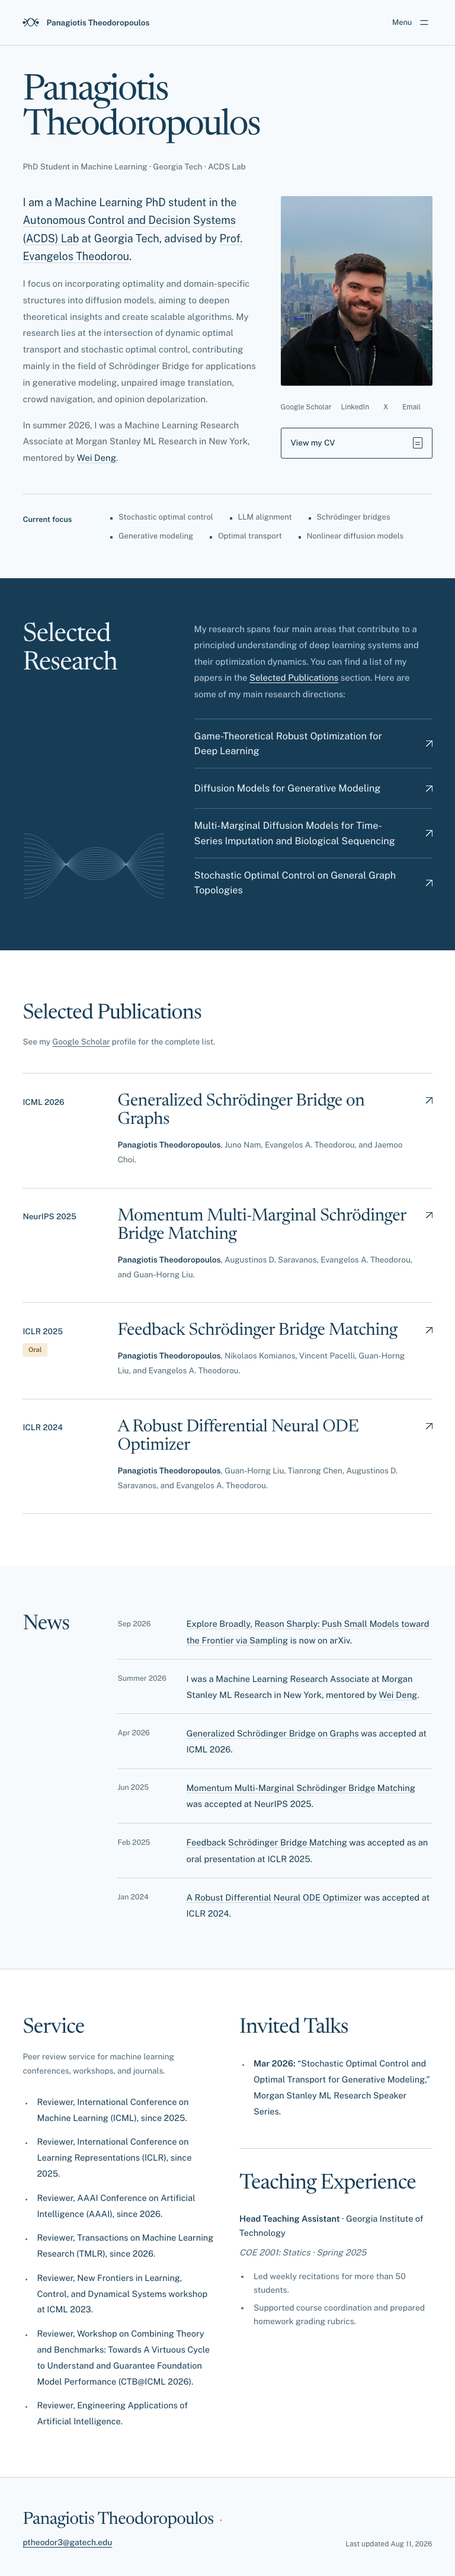
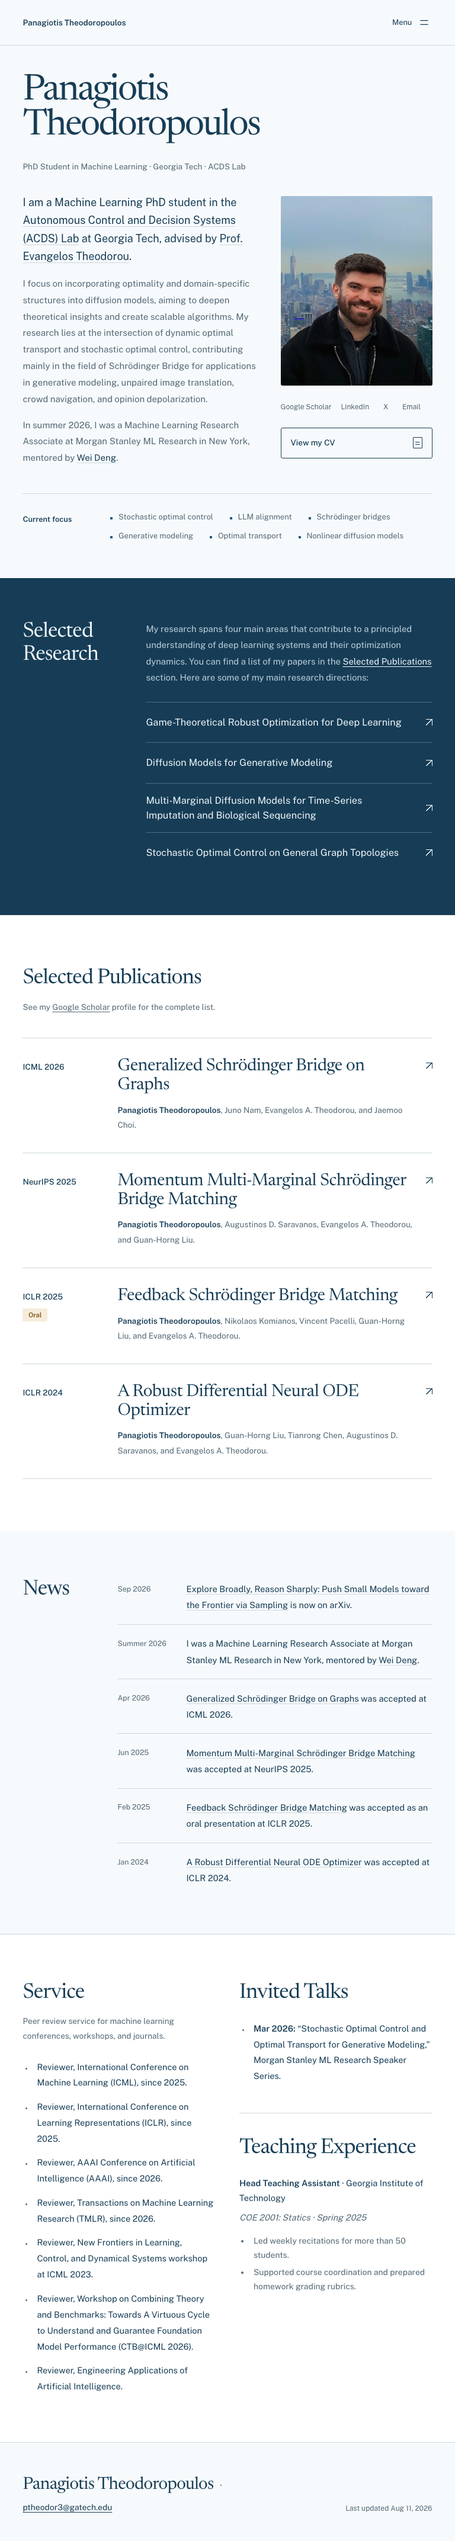
Remove decorative graphics and simplify research presentation

diff --git a/assets/site.css b/assets/site.css
@@ -104,14 +104,6 @@ section[id], main { scroll-margin-top: 6.5rem; }
   line-height: 1.35;
   text-decoration: none;
 }
-.site-mark {
-  flex: 0 0 auto;
-  overflow: visible;
-  fill: var(--ink);
-  stroke: var(--ink);
-  stroke-width: 1.2;
-}
-.site-mark path { fill: none; }
 .nav-list {
   display: flex;
   align-items: center;
@@ -267,10 +259,8 @@ h1 span { display: block; }
   color: var(--research-text);
   background: var(--research);
 }
-.research-grid { display: grid; grid-template-columns: 0.85fr 1.35fr; gap: 5rem; }
-.research-grid .section-header { display: flex; flex-direction: column; justify-content: space-between; }
-.research-grid .section-title { max-width: 16rem; font-size: clamp(2.75rem, 4vw, 3.6rem); }
-.transport-motif { width: 100%; max-width: 25rem; margin-top: 2.5rem; stroke: #7fa4be; stroke-width: 0.8; }
+.research-grid { display: grid; grid-template-columns: 14rem minmax(0, 1fr); gap: 3rem; }
+.research-grid .section-header { align-self: start; }
 .research-copy { margin-bottom: 1.7rem; color: var(--research-muted); font-size: 0.93rem; line-height: 1.85; }
 .research-copy a { color: var(--research-text); }
 .research-list { padding: 0; list-style: none; }
@@ -418,7 +408,7 @@ h1 span { display: block; }
   .hero-meta { max-width: none; }
   .hero-social { flex-wrap: wrap; justify-content: start; column-gap: 1rem; }
   .hero-social a[aria-label="X"] { min-width: 1.5rem; }
-  .research-grid { gap: 3rem; grid-template-columns: 0.75fr 1.25fr; }
+  .research-grid { gap: 2rem; grid-template-columns: 11rem minmax(0, 1fr); }
   .focus-block { grid-template-columns: 8rem minmax(0, 1fr); }
   .publications-section .section-header { display: block; }
   .publications-section .section-intro { max-width: none; margin-top: 1rem; }
@@ -434,7 +424,6 @@ h1 span { display: block; }
   section[id], main { scroll-margin-top: 5.5rem; }
   .header-inner { min-height: 4.5rem; }
   .site-title { gap: 0.5rem; font-size: 0.75rem; max-width: calc(100% - 5.25rem); }
-  .site-mark { width: 24px; height: 24px; }
   .site-title span { max-width: 11rem; }
   .site-header[data-enhanced] .nav-list { grid-template-columns: repeat(2, 1fr); gap: 0.4rem 2rem; }
   .nav-list { flex-wrap: wrap; justify-content: start; gap: 0.4rem 1.25rem; }
@@ -460,7 +449,6 @@ h1 span { display: block; }
   .research-grid { display: block; }
   .research-grid .section-header { margin-bottom: 1.5rem; }
   .research-grid .section-title { max-width: none; font-size: 2.65rem; }
-  .transport-motif { display: none; }
   .research-copy { margin-bottom: 1.5rem; font-size: 0.9rem; }
   .research-list a { padding-block: 1.15rem; font-size: 0.95rem; gap: 1.5rem; }
   .publications-section { padding-block: 3.25rem; }
@@ -517,13 +505,12 @@ h1 span { display: block; }
 @media (forced-colors: active) {
   :where(a, button):focus-visible { outline-color: Highlight; }
   .button, .oral-badge { border: 1px solid ButtonText; }
-  .transport-motif { stroke: CanvasText; }
 }
 
 @media print {
   :root { color-scheme: light; --paper: #fff; --surface: #fff; --ink: #000; --muted: #333; --line: #bbb; }
   body { font-size: 10pt; }
-  .site-header, .skip-link, .transport-motif { display: none; }
+  .site-header, .skip-link { display: none; }
   .container { width: 100%; }
   .hero, .publications-section, .news-section, .professional-section, .site-footer { padding-block: 1.5rem; }
   .hero-grid { grid-template-columns: minmax(0, 1fr) 11rem; gap: 1.5rem; }

diff --git a/dist/client/assets/site.css b/dist/client/assets/site.css
@@ -104,14 +104,6 @@ section[id], main { scroll-margin-top: 6.5rem; }
   line-height: 1.35;
   text-decoration: none;
 }
-.site-mark {
-  flex: 0 0 auto;
-  overflow: visible;
-  fill: var(--ink);
-  stroke: var(--ink);
-  stroke-width: 1.2;
-}
-.site-mark path { fill: none; }
 .nav-list {
   display: flex;
   align-items: center;
@@ -267,10 +259,8 @@ h1 span { display: block; }
   color: var(--research-text);
   background: var(--research);
 }
-.research-grid { display: grid; grid-template-columns: 0.85fr 1.35fr; gap: 5rem; }
-.research-grid .section-header { display: flex; flex-direction: column; justify-content: space-between; }
-.research-grid .section-title { max-width: 16rem; font-size: clamp(2.75rem, 4vw, 3.6rem); }
-.transport-motif { width: 100%; max-width: 25rem; margin-top: 2.5rem; stroke: #7fa4be; stroke-width: 0.8; }
+.research-grid { display: grid; grid-template-columns: 14rem minmax(0, 1fr); gap: 3rem; }
+.research-grid .section-header { align-self: start; }
 .research-copy { margin-bottom: 1.7rem; color: var(--research-muted); font-size: 0.93rem; line-height: 1.85; }
 .research-copy a { color: var(--research-text); }
 .research-list { padding: 0; list-style: none; }
@@ -418,7 +408,7 @@ h1 span { display: block; }
   .hero-meta { max-width: none; }
   .hero-social { flex-wrap: wrap; justify-content: start; column-gap: 1rem; }
   .hero-social a[aria-label="X"] { min-width: 1.5rem; }
-  .research-grid { gap: 3rem; grid-template-columns: 0.75fr 1.25fr; }
+  .research-grid { gap: 2rem; grid-template-columns: 11rem minmax(0, 1fr); }
   .focus-block { grid-template-columns: 8rem minmax(0, 1fr); }
   .publications-section .section-header { display: block; }
   .publications-section .section-intro { max-width: none; margin-top: 1rem; }
@@ -434,7 +424,6 @@ h1 span { display: block; }
   section[id], main { scroll-margin-top: 5.5rem; }
   .header-inner { min-height: 4.5rem; }
   .site-title { gap: 0.5rem; font-size: 0.75rem; max-width: calc(100% - 5.25rem); }
-  .site-mark { width: 24px; height: 24px; }
   .site-title span { max-width: 11rem; }
   .site-header[data-enhanced] .nav-list { grid-template-columns: repeat(2, 1fr); gap: 0.4rem 2rem; }
   .nav-list { flex-wrap: wrap; justify-content: start; gap: 0.4rem 1.25rem; }
@@ -460,7 +449,6 @@ h1 span { display: block; }
   .research-grid { display: block; }
   .research-grid .section-header { margin-bottom: 1.5rem; }
   .research-grid .section-title { max-width: none; font-size: 2.65rem; }
-  .transport-motif { display: none; }
   .research-copy { margin-bottom: 1.5rem; font-size: 0.9rem; }
   .research-list a { padding-block: 1.15rem; font-size: 0.95rem; gap: 1.5rem; }
   .publications-section { padding-block: 3.25rem; }
@@ -517,13 +505,12 @@ h1 span { display: block; }
 @media (forced-colors: active) {
   :where(a, button):focus-visible { outline-color: Highlight; }
   .button, .oral-badge { border: 1px solid ButtonText; }
-  .transport-motif { stroke: CanvasText; }
 }
 
 @media print {
   :root { color-scheme: light; --paper: #fff; --surface: #fff; --ink: #000; --muted: #333; --line: #bbb; }
   body { font-size: 10pt; }
-  .site-header, .skip-link, .transport-motif { display: none; }
+  .site-header, .skip-link { display: none; }
   .container { width: 100%; }
   .hero, .publications-section, .news-section, .professional-section, .site-footer { padding-block: 1.5rem; }
   .hero-grid { grid-template-columns: minmax(0, 1fr) 11rem; gap: 1.5rem; }

diff --git a/dist/client/index.html b/dist/client/index.html
@@ -60,7 +60,7 @@
 
   <link rel="preload" href="assets/fonts/newsreader-latin.woff2" as="font" type="font/woff2" crossorigin>
   <link rel="preload" href="assets/fonts/public-sans-latin.woff2" as="font" type="font/woff2" crossorigin>
-  <link rel="icon" href="assets/favicon.svg" type="image/svg+xml">
+  <link rel="icon" href="assets/favicon.svg?v=2" type="image/svg+xml">
   <link rel="stylesheet" href="assets/site.css">
   <script src="assets/site.js" defer></script>
 </head>
@@ -70,7 +70,7 @@
 
   <header class="site-header">
     <div class="container header-inner">
-      <a class="site-title" href="#about"><svg class="site-mark" viewBox="0 0 32 32" width="28" height="28" aria-hidden="true"><path d="M3 23C10 23 9 8 16 8s6 15 13 15M3 16c7 0 6-8 13-8s6 8 13 8M3 9c7 0 6 14 13 14s6-14 13-14"/><circle cx="3" cy="16" r="2"/><circle cx="29" cy="16" r="2"/></svg><span>Panagiotis Theodoropoulos</span></a>
+      <a class="site-title" href="#about"><span>Panagiotis Theodoropoulos</span></a>
       <button class="menu-toggle" type="button" aria-expanded="false" aria-controls="primary-nav" hidden><span>Menu</span><svg viewBox="0 0 24 24" width="20" height="20" aria-hidden="true"><path d="M4 8h16M4 16h16"/></svg></button>
       <nav id="primary-nav" class="primary-nav" aria-label="Primary navigation">
         <ul class="nav-list">
@@ -206,7 +206,7 @@
       <div class="container research-grid">
         <div class="section-header">
           <h2 id="research-title" class="section-title">Selected Research</h2>
-          <svg class="transport-motif" viewBox="0 0 434 244" fill="none" aria-hidden="true"><path d="M4 20 C100 20, 120 160, 225 160 S340 20, 430 20"/><path d="M4 34 C100 34, 120 153, 225 153 S340 34, 430 34"/><path d="M4 48 C100 48, 120 146, 225 146 S340 48, 430 48"/><path d="M4 62 C100 62, 120 139, 225 139 S340 62, 430 62"/><path d="M4 76 C100 76, 120 132, 225 132 S340 76, 430 76"/><path d="M4 90 C100 90, 120 125, 225 125 S340 90, 430 90"/><path d="M4 104 C100 104, 120 118, 225 118 S340 104, 430 104"/><path d="M4 118 C100 118, 120 111, 225 111 S340 118, 430 118"/><path d="M4 132 C100 132, 120 104, 225 104 S340 132, 430 132"/><path d="M4 146 C100 146, 120 97, 225 97 S340 146, 430 146"/><path d="M4 160 C100 160, 120 90, 225 90 S340 160, 430 160"/><path d="M4 174 C100 174, 120 83, 225 83 S340 174, 430 174"/><path d="M4 188 C100 188, 120 76, 225 76 S340 188, 430 188"/><path d="M4 202 C100 202, 120 69, 225 69 S340 202, 430 202"/><path d="M4 216 C100 216, 120 62, 225 62 S340 216, 430 216"/></svg>
+
         </div>
 
         <div class="research-body">

diff --git a/index.html b/index.html
@@ -60,7 +60,7 @@
 
   <link rel="preload" href="assets/fonts/newsreader-latin.woff2" as="font" type="font/woff2" crossorigin>
   <link rel="preload" href="assets/fonts/public-sans-latin.woff2" as="font" type="font/woff2" crossorigin>
-  <link rel="icon" href="assets/favicon.svg" type="image/svg+xml">
+  <link rel="icon" href="assets/favicon.svg?v=2" type="image/svg+xml">
   <link rel="stylesheet" href="assets/site.css">
   <script src="assets/site.js" defer></script>
 </head>
@@ -70,7 +70,7 @@
 
   <header class="site-header">
     <div class="container header-inner">
-      <a class="site-title" href="#about"><svg class="site-mark" viewBox="0 0 32 32" width="28" height="28" aria-hidden="true"><path d="M3 23C10 23 9 8 16 8s6 15 13 15M3 16c7 0 6-8 13-8s6 8 13 8M3 9c7 0 6 14 13 14s6-14 13-14"/><circle cx="3" cy="16" r="2"/><circle cx="29" cy="16" r="2"/></svg><span>Panagiotis Theodoropoulos</span></a>
+      <a class="site-title" href="#about"><span>Panagiotis Theodoropoulos</span></a>
       <button class="menu-toggle" type="button" aria-expanded="false" aria-controls="primary-nav" hidden><span>Menu</span><svg viewBox="0 0 24 24" width="20" height="20" aria-hidden="true"><path d="M4 8h16M4 16h16"/></svg></button>
       <nav id="primary-nav" class="primary-nav" aria-label="Primary navigation">
         <ul class="nav-list">
@@ -206,7 +206,7 @@
       <div class="container research-grid">
         <div class="section-header">
           <h2 id="research-title" class="section-title">Selected Research</h2>
-          <svg class="transport-motif" viewBox="0 0 434 244" fill="none" aria-hidden="true"><path d="M4 20 C100 20, 120 160, 225 160 S340 20, 430 20"/><path d="M4 34 C100 34, 120 153, 225 153 S340 34, 430 34"/><path d="M4 48 C100 48, 120 146, 225 146 S340 48, 430 48"/><path d="M4 62 C100 62, 120 139, 225 139 S340 62, 430 62"/><path d="M4 76 C100 76, 120 132, 225 132 S340 76, 430 76"/><path d="M4 90 C100 90, 120 125, 225 125 S340 90, 430 90"/><path d="M4 104 C100 104, 120 118, 225 118 S340 104, 430 104"/><path d="M4 118 C100 118, 120 111, 225 111 S340 118, 430 118"/><path d="M4 132 C100 132, 120 104, 225 104 S340 132, 430 132"/><path d="M4 146 C100 146, 120 97, 225 97 S340 146, 430 146"/><path d="M4 160 C100 160, 120 90, 225 90 S340 160, 430 160"/><path d="M4 174 C100 174, 120 83, 225 83 S340 174, 430 174"/><path d="M4 188 C100 188, 120 76, 225 76 S340 188, 430 188"/><path d="M4 202 C100 202, 120 69, 225 69 S340 202, 430 202"/><path d="M4 216 C100 216, 120 62, 225 62 S340 216, 430 216"/></svg>
+
         </div>
 
         <div class="research-body">

diff --git a/README.md b/README.md
@@ -32,7 +32,7 @@ Eight Mobbin MCP searches returned 27 references, all inspected before implement
 - [Read.cv's profile](https://mobbin.com/screens/072d6e31-1bf0-4c5f-b32c-0b9b33845567) informed the compact professional record.
 - [IntegratedBio's publications](https://mobbin.com/sites/sections/593eb726-d6e4-4872-a1d5-51fb4d4a9893) informed the unboxed article links.
 
-Newsreader headings and Public Sans text sit on cool white and deep blue. The original photograph supplies the color context. A static transport-path motif refers to the research subject; it is decorative rather than a representation of research results. Publications precede news, and all four papers remain immediately visible without filters or collapsed content.
+Newsreader headings and Public Sans text sit on cool white and deep blue. The original photograph supplies the color context. Research directions and publications use text and direct links to the papers. Publications precede news, and all four papers remain immediately visible without filters or collapsed content.
 
 ## Verification
 
